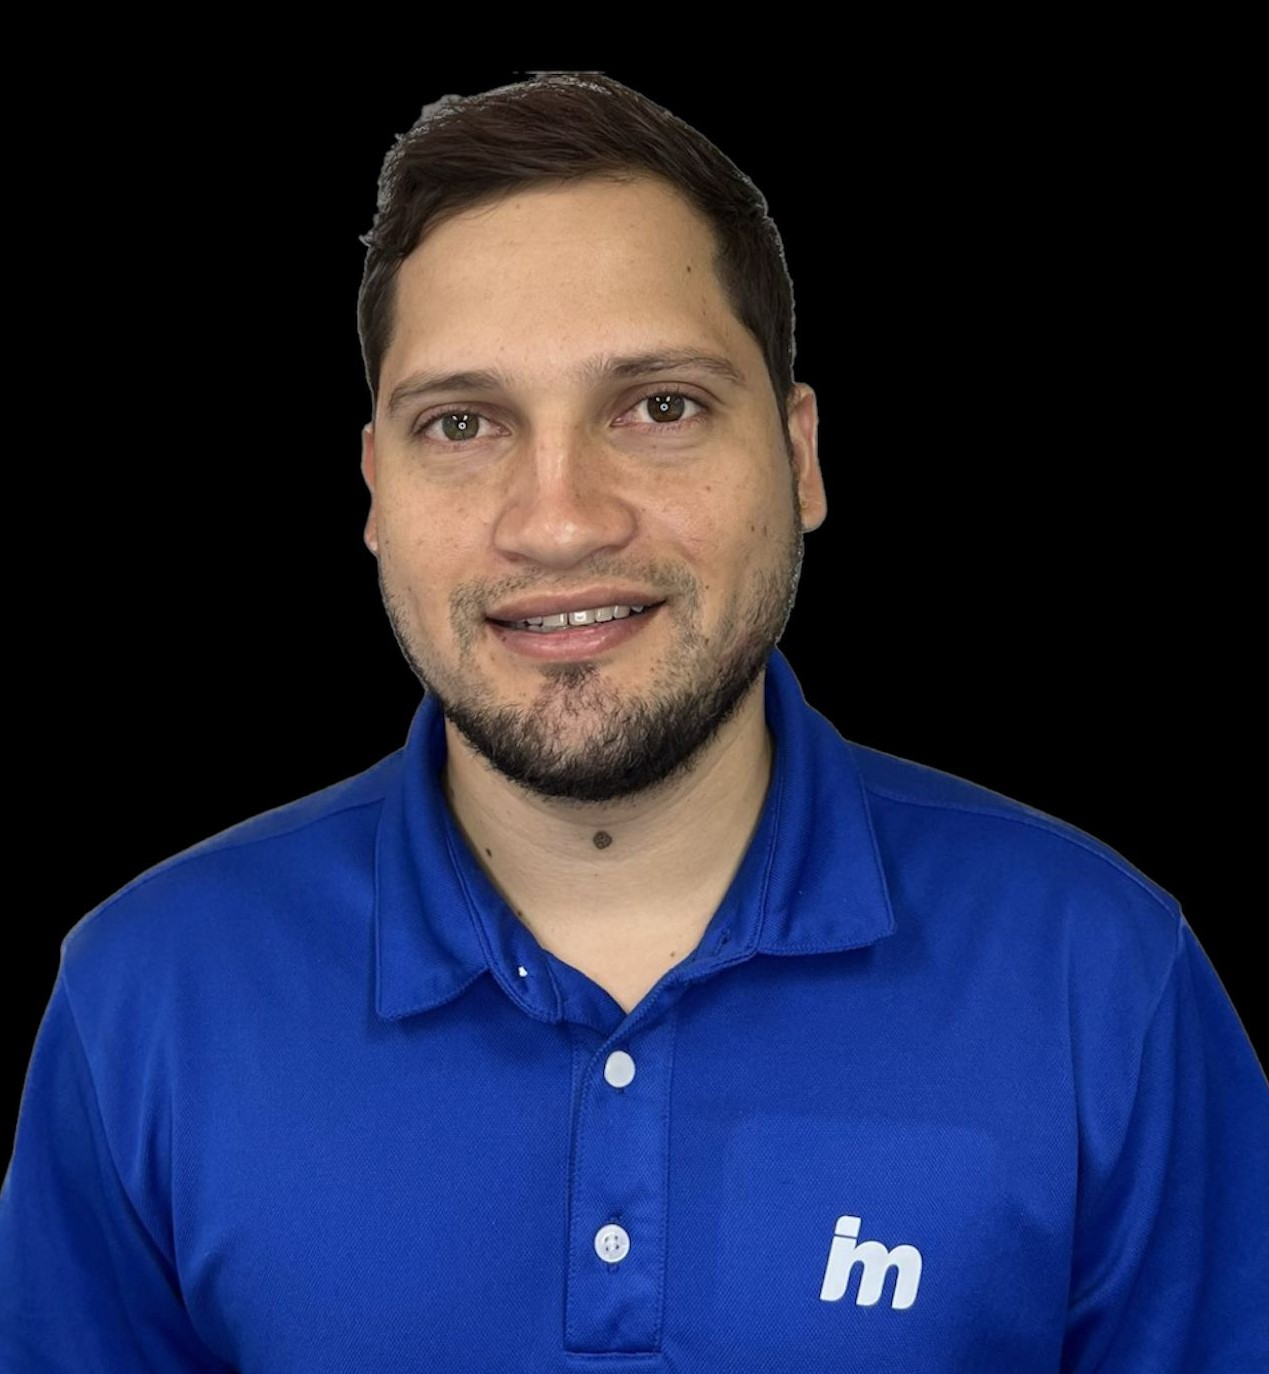
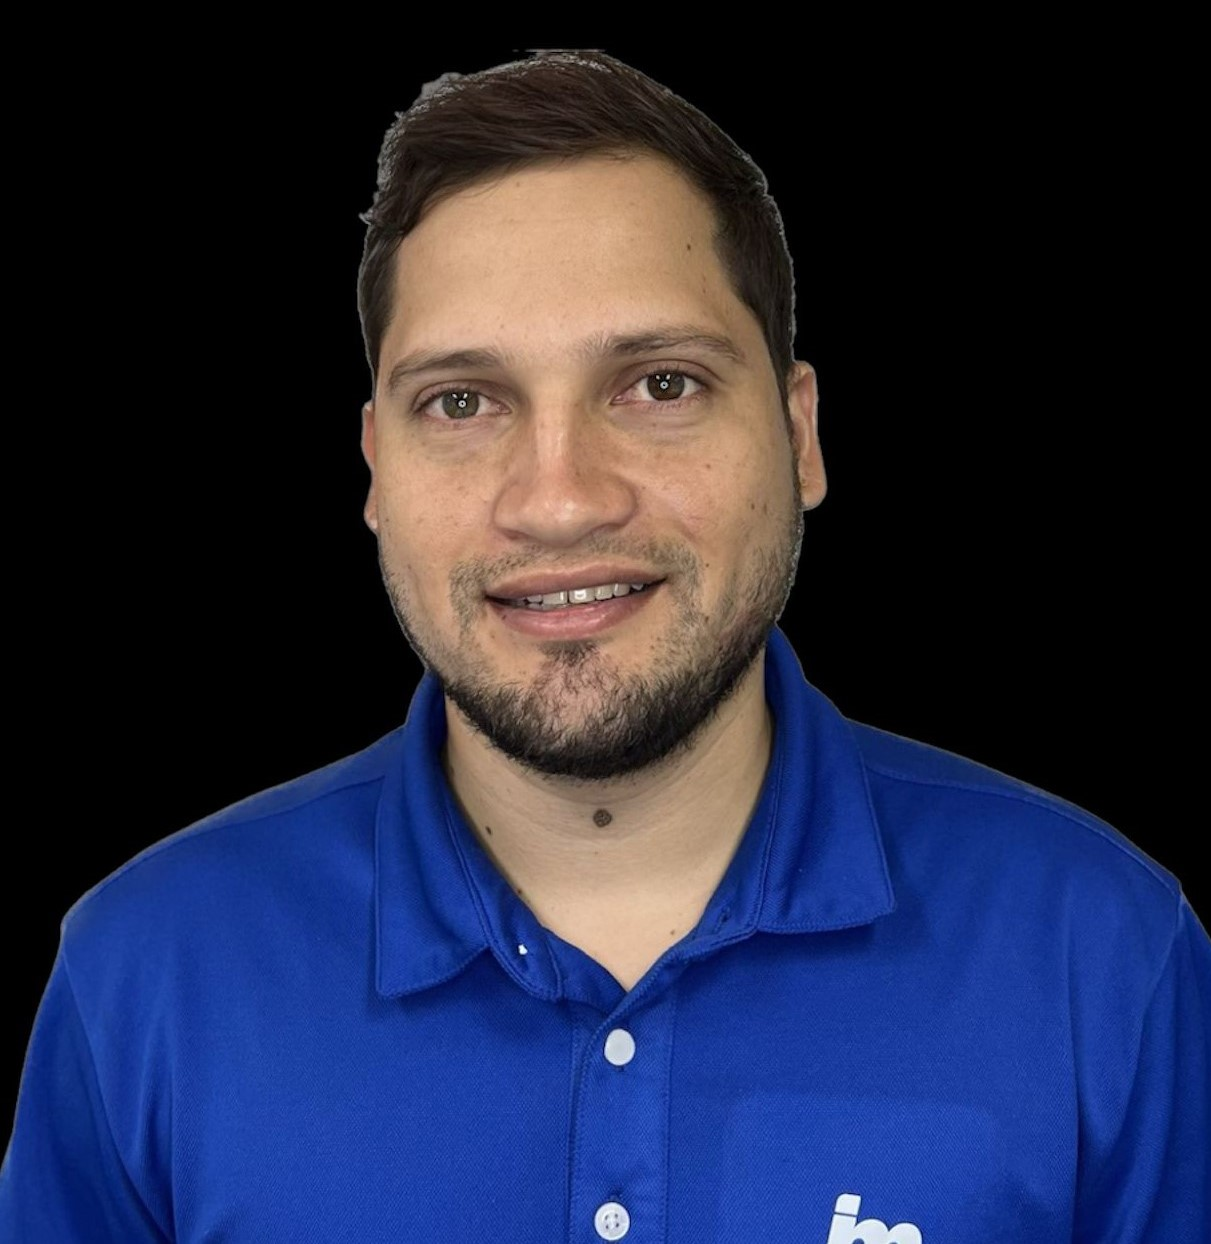
Ajustes de dimensiones

Changed region(s): [[0.0, 0.0305, 1.0, 1.0], [0.6416, 0.8248, 0.7333, 0.8553], [0.3055, 0.9775, 0.3666, 1.0]]

diff --git a/Pc_styles.css b/Pc_styles.css
@@ -405,7 +405,8 @@ main .about-us-container article .cards .card-Kevind .mini-info-Kevind button{
 .informationShow{
     width: 82.55%;
     height: 80%;
-    margin: 53% 20px 20px 8.7%;
+    margin: 50% 20px 0 8.7%;
+    padding: 150px 0 0 0;
     z-index: 99;
     position: absolute ;
     display: flex;
@@ -419,10 +420,11 @@ main .about-us-container article .cards .card-Kevind .mini-info-Kevind button{
     background-color: #000000;
     width: 100%;
     height: 100%;
-    padding: 200px;
+    /* padding: 200px; */
     position: absolute;
     z-index: 99;
     animation: FadeInUp 1s ease-out;
+    margin: 0 0 15rem 0;
 }
 
 .information .infoMitchellShow h1{
@@ -432,47 +434,55 @@ main .about-us-container article .cards .card-Kevind .mini-info-Kevind button{
     background-color: #000000;
     width: 100%;
     height: 100%;
-    padding: 200px;
+    /* padding: 200px; */
     position: absolute;
     z-index: 99;
-    animation: FadeInUp 1s ease-in;
-    display: flex;
-    flex-direction: column;
+    animation: FadeInUp 1s ease-out;
+    margin: 0 0 15rem 0;
 }
 .information .infoKevindShow h1{
     color: white;
 }
 .superior{
-    margin: -20rem 0 0 -20rem;
+    /* margin: -20rem 0 0 -20rem; */
     /* background-color: green; */
-    width: 157%;
+    width: 100%;
     display: flex;
 }
 .BodyInfo{
     display: flex;
     /* background-color: rgb(255, 0, 0); */
-    height: calc(100vh - 130%);
-    margin: 0rem 0 20rem -20rem;
-    width: calc(100vw - 34%);
+    /* height: 100%; */
+    /* margin: 0rem 0 20rem -20rem; */
+    width: 100%;
 }
 .BodyInfo .imagen{
     width: 40%;
-    height: 100%;  
+    height: 100%; 
     display: flex;
-    margin-top: 2%;
+    /* margin-top: 2%; */
+    border-radius: 20px;
     justify-content: center;
-    align-items: flex-start; 
-    /* background-color: #4200FF; */
+    /* align-items: flex-start;  */
+    background: rgb(255,255,255);
+    background: linear-gradient(0deg, #0095ff21 0%, rgba(0, 0, 0, 0.281) 48%);
+    /* box-shadow: 0px 0px 5px 1px rgba(54, 54, 54, 0.63); */
 }
 .BodyInfo .imagen img{
-    width: 80%;
-    
+    width: 100%;
+    /* object-fit: contain; */
+    border-radius: 20px;
+    /* margin-top: -5rem; */
+    position:relative;
+    z-index:-1;
+    /* display:block; */
+  
 }
 .BodyInfo .texto{
     width: 60%;
     color: white;
-    height: 457px;  
-    padding: 5rem 0 0 0;
+    height: 100%;  
+    padding: 0 1rem 0 2rem;
     /* display: flex; */
     flex-direction: column;
     flex-wrap: wrap;
@@ -484,6 +494,7 @@ main .about-us-container article .cards .card-Kevind .mini-info-Kevind button{
 }
 .BodyInfo .texto h1{
     font-size: 25px;
+    padding: 2vh 0 0 0;
     font-family:  'Amiko';
 }
 .BodyInfo .texto h2{
@@ -494,10 +505,20 @@ main .about-us-container article .cards .card-Kevind .mini-info-Kevind button{
     font-family: 'Amiko';
     font-size: 15px;
 }
+.BodyInfo .texto .InfoProfesion{
+    /* background-color: violet; */
+    padding: 3vh 0 3vh 0;
+}
+.BodyInfo .texto .descripccionProfesion{
+    /* background-color: rgb(105, 0, 105); */
+    padding: 1vh 0 1vh 0;
+}
+
 .BodyInfo .texto .skills{
     text-align: center;
-    margin: 3rem 0 0 0;
+    padding: 2vh 0 0 0;
     font-size: 15px;
+    /* background-color: red; */
 }
 .BodyInfo .texto .skillsLogos{
     display: flex;
@@ -547,10 +568,12 @@ main .about-us-container article .cards .card-Kevind .mini-info-Kevind button{
 }
 .BodyInfo .botones{
     width: 100%; 
-    margin: 3% 0 0 0;
+    height: 12vh;
+    padding: 3% 0 0 0;
     display: flex;
-    align-items: flex-start;
-    justify-content: flex-start;   
+    align-items: center;
+    justify-content: center;   
+    /* background-color: green; */
 }
 .BodyInfo .botones button{
     width: 20%;
@@ -558,7 +581,7 @@ main .about-us-container article .cards .card-Kevind .mini-info-Kevind button{
     border-radius: 20px;
     padding: 0 2px 0 2px;
     background-color: #ffffff;
-    margin: 0 2rem 0 13rem;
+    margin: 0 0 0 2rem;
     display: flex;
     align-items: center;
     color: white;    

diff --git a/index.html b/index.html
@@ -95,7 +95,12 @@
                             <h1>Hola soy, <span>Mitchell</span></h1>
                         </div>
                        <div class="profesion">
-                            <h2>Analista y desarrollador de software</h2>
+                            <div class="InfoProfesion">
+                                <h2>Analista y desarrollador de software</h2>
+                            </div>
+                            <div class="descripccionProfesion">
+                                <p>Lorem ipsum dolor sit amet consectetur adipisicing elit. Excepturi cumque repellendus officiis laborum, harum sequi velit similique ex iure repellat dolore magni, neque eum? Odit quos iusto cum odio sit.</p>
+                            </div>
                        </div>
                        <div class="skills">
                             <p>Tecnologías manejadas:</p>
@@ -158,7 +163,12 @@
                    <div class="texto">
                         <h1>Hola soy, <span>Kevind</span></h1>
                         <div class="profesion">
-                            <h2>Ingeniero Multimedia y desarrollador de software</h2>
+                            <div class="InfoProfesion">
+                                <h2>Ingeniero Multimedia y desarrollador de software</h2>
+                            </div>
+                            <div class="descripccionProfesion">
+                                <p>Lorem ipsum dolor sit amet consectetur adipisicing elit. Excepturi cumque repellendus officiis laborum, harum sequi velit similique ex iure repellat dolore magni, neque eum? Odit quos iusto cum odio sit.</p>
+                            </div>
                        </div>
                        <div class="skills">
                             <p>Tecnologías manejadas:</p>
